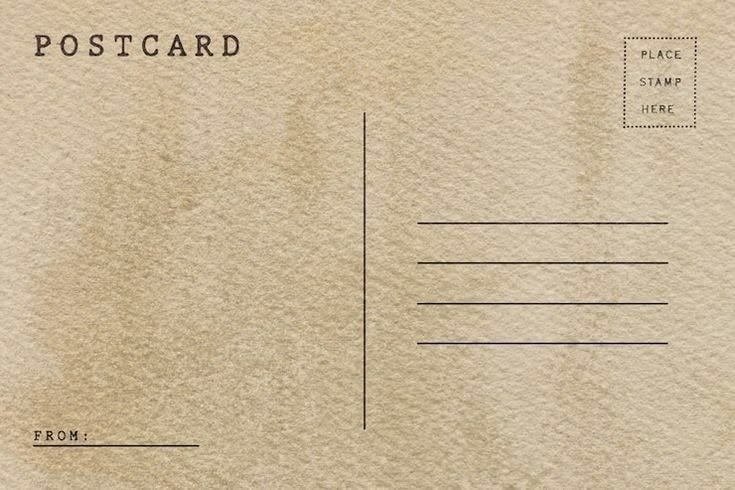
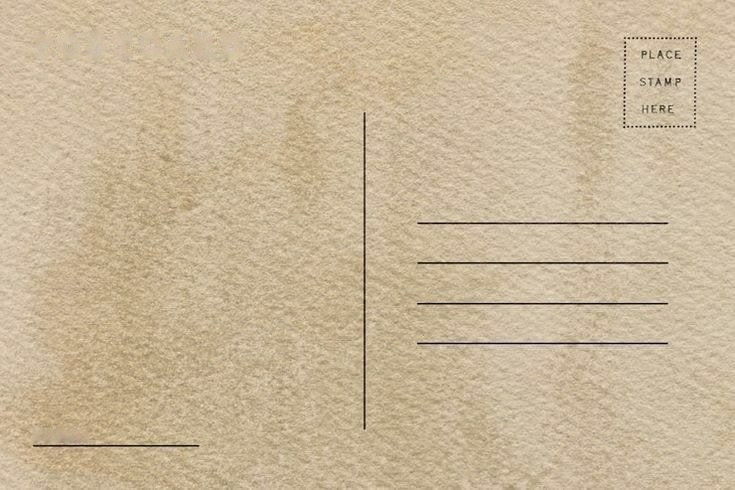
Readable postcard, bigger card labels, Hack Dearborn outcome

Changed region(s): [[0.0299, 0.0612, 0.3293, 0.1224], [0.0599, 0.8571, 0.1197, 0.9184]]

diff --git a/src/styles.css b/src/styles.css
@@ -160,6 +160,8 @@ body { position: relative; }
 .deckle { position: relative; border: 60px solid transparent; border-image: var(--deckle) 70 fill / 60px / 0 stretch; filter: drop-shadow(0 1px 1px rgba(60, 45, 25, .16)) drop-shadow(0 12px 14px rgba(60, 45, 25, .14)); }
 .project__sheet { padding: 34px 6px 4px 4px; margin: -20px; }
 .project__sheet > :not(.deckle__seal):not(.deckle__tape) { position: relative; }
+.project__sheet > .eyebrow { font-size: 14px; letter-spacing: .16em; color: var(--ink); }
+.project__sheet > .caption { font-size: 15.5px; color: #3A332C; }
 .deckle__seal { position: absolute; width: 62px; left: 50%; top: -58px; margin-left: -31px; transform: rotate(-8deg); }
 .deckle__tape { width: 110px; right: -54px; top: -50px; left: auto; transform: rotate(32deg); }
 .project__title { font-family: var(--script); color: var(--accent); font-size: calc((clamp(56px, 7vw, 80px)) * var(--script-scale)); line-height: 1; margin: 6px 0 2px; }
@@ -169,7 +171,7 @@ body { position: relative; }
 .pages__stack { display: grid; }
 .pages__page { grid-area: 1 / 1; opacity: 0; visibility: hidden; transform: translateX(14px); transition: opacity .35s ease, transform .35s ease, visibility 0s .35s; }
 .pages__page.is-on { opacity: 1; visibility: visible; transform: none; transition: opacity .35s ease, transform .35s ease; }
-.pages__page h4 { font-family: var(--caps); font-size: 12px; letter-spacing: .18em; text-transform: uppercase; color: var(--ink-soft); margin: 4px 0 6px; }
+.pages__page h4 { font-family: var(--caps); font-size: 14px; letter-spacing: .16em; text-transform: uppercase; color: var(--ink); margin: 4px 0 6px; }
 .pages__page p { margin: 0 0 8px; }
 .pages__page ul { margin: 0 0 8px; padding-left: 18px; }
 .pages__page li { margin-bottom: 4px; }
@@ -193,7 +195,8 @@ body { position: relative; }
 }
 .notebook__page:focus-visible { outline: 2px solid var(--gold); outline-offset: 4px; }
 .notebook__org { font-family: var(--caps); font-size: 19px; color: var(--accent); line-height: 1.3; }
-.notebook__when { margin-bottom: 2px; }
+.notebook__when { margin-bottom: 2px; font-size: 15px; color: #3A332C; }
+.notebook__page .eyebrow { font-size: 14px; letter-spacing: .16em; color: var(--ink); }
 .notebook__more { display: grid; grid-template-rows: 0fr; transition: grid-template-rows .45s ease; }
 .notebook__more > span { overflow: hidden; font-size: 16.5px; line-height: 26px; padding-top: 0; transition: padding-top .45s ease; }
 .notebook__hint { position: absolute; right: 24px; bottom: 16px; font-size: 12px; opacity: .75; transition: opacity .3s; }
@@ -271,13 +274,13 @@ body { position: relative; }
 .postcard {
   position: relative; max-width: 880px; margin: 40px auto 0; transform: rotate(-.8deg);
   aspect-ratio: 735 / 490; container-type: inline-size;
-  background: var(--postcard) 0 0 / 100% 100% no-repeat;
+  background: linear-gradient(rgba(250, 246, 238, .3), rgba(250, 246, 238, .3)), var(--postcard) 0 0 / 100% 100% no-repeat;
   box-shadow: 0 1px 1px rgba(40, 30, 20, .14), 0 10px 14px -8px rgba(40, 30, 20, .3), 0 34px 40px -30px rgba(40, 30, 20, .55);
 }
 .postcard__note { position: absolute; left: 4.6%; top: 15.5%; width: 41.5%; }
-.postcard__note p { margin: 0 0 .7em; font-style: italic; font-size: clamp(12px, 1.95cqw, 17.5px); line-height: 1.5; color: #2E2924; }
-.postcard__note .postcard__hi { font-family: var(--script); font-style: normal; font-size: calc((5.4cqw) * var(--script-scale)); line-height: 1; color: var(--accent); margin-bottom: .25em; }
-.postcard__note .postcard__ps { font-family: var(--type); font-style: normal; font-size: clamp(10px, 1.45cqw, 13px); color: var(--ink-soft); margin-top: 1em; }
+.postcard__note p { margin: 0 0 .7em; font-style: italic; font-weight: 600; font-size: clamp(12.5px, 2.05cqw, 18px); line-height: 1.45; color: #1E1915; }
+.postcard__note .postcard__hi { font-family: var(--script); font-style: normal; font-weight: 400; font-size: calc((5.4cqw) * var(--script-scale)); line-height: 1; color: var(--accent); margin-bottom: .25em; }
+.postcard__note .postcard__ps { font-family: var(--type); font-style: normal; font-weight: 400; font-size: clamp(10.5px, 1.6cqw, 14px); color: #2A2420; margin-top: 1em; }
 .postcard__from { position: absolute; left: 13.5%; top: 80.5%; margin: 0; font-family: var(--script); font-size: calc((6cqw) * var(--script-scale)); line-height: 1; color: var(--accent); transform: rotate(-4deg); }
 .postcard__corner { position: absolute; left: 56%; right: 3.4%; top: 4%; height: 26%; }
 .postage { position: absolute; right: 0; top: 2%; width: 15.5cqw; transform: rotate(3deg); filter: drop-shadow(0 1px .6px rgba(40, 30, 20, .45)) drop-shadow(0 3px 4px rgba(40, 30, 20, .15)); }
@@ -291,17 +294,22 @@ body { position: relative; }
 .postcard__corner .stamp { left: 10%; top: 18%; width: 9.5cqw; height: 9.5cqw; z-index: 6; color: #3F3A35; opacity: .7; }
 .cancel { position: absolute; left: 25%; top: 34%; width: 44%; height: 30%; color: #3F3A35; opacity: .5; mix-blend-mode: multiply; z-index: 6; }
 .postcard__lines { position: absolute; left: 56.7%; right: 9.3%; top: 39%; margin: 0; padding: 0; list-style: none; }
-.postcard__lines li { height: 5.45cqw; display: flex; align-items: flex-end; padding: 0 0 .5cqw 1cqw; font-family: var(--type); font-size: clamp(10.5px, 1.6cqw, 14.5px); color: var(--ink); white-space: nowrap; overflow: hidden; text-overflow: ellipsis; }
-.postcard__lines a { color: var(--ink); text-decoration: none; border-bottom: 1px dotted rgba(70, 60, 50, .6); }
+.postcard__lines li { height: 5.45cqw; display: flex; align-items: flex-end; padding: 0 0 .5cqw 1cqw; font-family: var(--type); font-size: clamp(11px, 1.7cqw, 15px); color: #1E1915; white-space: nowrap; overflow: hidden; text-overflow: ellipsis; }
+.postcard__lines a { color: #1E1915; text-decoration: none; border-bottom: 1px dotted rgba(70, 60, 50, .6); }
 .postcard__lines a:hover { border-bottom-style: solid; }
-.postcard__copy { font: inherit; font-size: .85em; color: var(--ink-soft); background: none; border: 0; padding: 0 0 0 6px; cursor: var(--quill-tap, pointer); text-decoration: underline dotted; }
+/* the printed labels, in the site's own fonts (erased from the postcard photo) */
+.postcard__title { position: absolute; left: 4.4%; top: 5.2%; margin: 0; font-family: var(--caps); font-size: 4.6cqw; letter-spacing: .2em; text-transform: uppercase; line-height: 1; color: #2A221C; }
+.postcard__fromlabel { position: absolute; left: 4.5%; top: 86.6%; font-family: var(--type); font-size: 2.1cqw; letter-spacing: .25em; text-transform: uppercase; line-height: 1; color: #2A221C; }
+.postcard__copy { font: inherit; font-size: .85em; color: #4A423A; background: none; border: 0; padding: 0 0 0 6px; cursor: var(--quill-tap, pointer); text-decoration: underline dotted; }
 .postcard__copy:hover { color: var(--ink); }
 /* narrow screens: the same card, stacked, on a blank piece of the postcard */
 @media (max-width: 680px) {
-  .postcard { aspect-ratio: auto; transform: none; background: var(--postcard-blank) 0 0 / cover; padding: 26px 22px 30px; display: grid; }
+  .postcard { aspect-ratio: auto; transform: none; background: linear-gradient(rgba(250, 246, 238, .3), rgba(250, 246, 238, .3)), var(--postcard-blank) 0 0 / cover; padding: 26px 22px 30px; display: grid; }
   .postcard__note, .postcard__from, .postcard__corner, .postcard__lines { position: relative; inset: auto; width: auto; }
-  .postcard__note p { font-size: 17px; }
+  .postcard__note p { font-size: 18px; }
   .postcard__note .postcard__hi { font-size: calc(46px * var(--script-scale)); }
+  .postcard__title { position: relative; inset: auto; order: -2; font-size: 26px; margin-bottom: 14px; }
+  .postcard__fromlabel { display: none; }
   .postcard__note .postcard__ps { font-size: 13px; }
   .postcard__from { font-size: calc(52px * var(--script-scale)); margin: 6px 0 16px; }
   .postcard__corner { order: -1; height: 120px; margin-bottom: 10px; }

diff --git a/src/data/content.ts b/src/data/content.ts
@@ -92,7 +92,7 @@ export const projects: Project[] = [
     when: 'Feb – Oct 2026',
     role: 'Development & marketing',
     summary:
-      "The site, app and merch for Southeast Michigan's largest hackathon: about 300 hackers and more than 15 sponsors, including Google, Red Bull and Ford.",
+      "The site, app and merch for Southeast Michigan's largest hackathon, built alongside the team that ran it.",
     tools: ['React', 'TypeScript', 'Figma', 'Canva'],
     images: [],
     imageNote: 'site, app or merch photo',
@@ -104,6 +104,10 @@ export const projects: Project[] = [
           'Designed web, app and merchandise assets in Figma and Canva.',
           'Connected the design and development teams so both shipped the same vision.',
         ],
+      },
+      {
+        heading: 'How it landed',
+        body: 'About 300 hackers came for the weekend, the biggest hackathon in Southeast Michigan, and more than 15 sponsors signed on, including Google, Red Bull and Ford. The site and merch were the first thing every one of them saw.',
       },
     ],
   },

diff --git a/src/components/Sections.tsx b/src/components/Sections.tsx
@@ -274,11 +274,13 @@ export function Contact() {
     <section id="contact" className="section">
       <Heading script="Say" caps="hi" />
       <div className="postcard">
+        <p className="postcard__title">Postcard</p>
         <div className="postcard__note">
           <p className="postcard__hi">{postcard.greeting}</p>
           {postcard.body.map((l) => <p key={l}>{l}</p>)}
           <p className="postcard__ps">{postcard.ps}</p>
         </div>
+        <span className="postcard__fromlabel" aria-hidden="true">From:</span>
         <p className="postcard__from">{profile.first}</p>
         <div className="postcard__corner">
           <div className="postage" aria-hidden="true">
